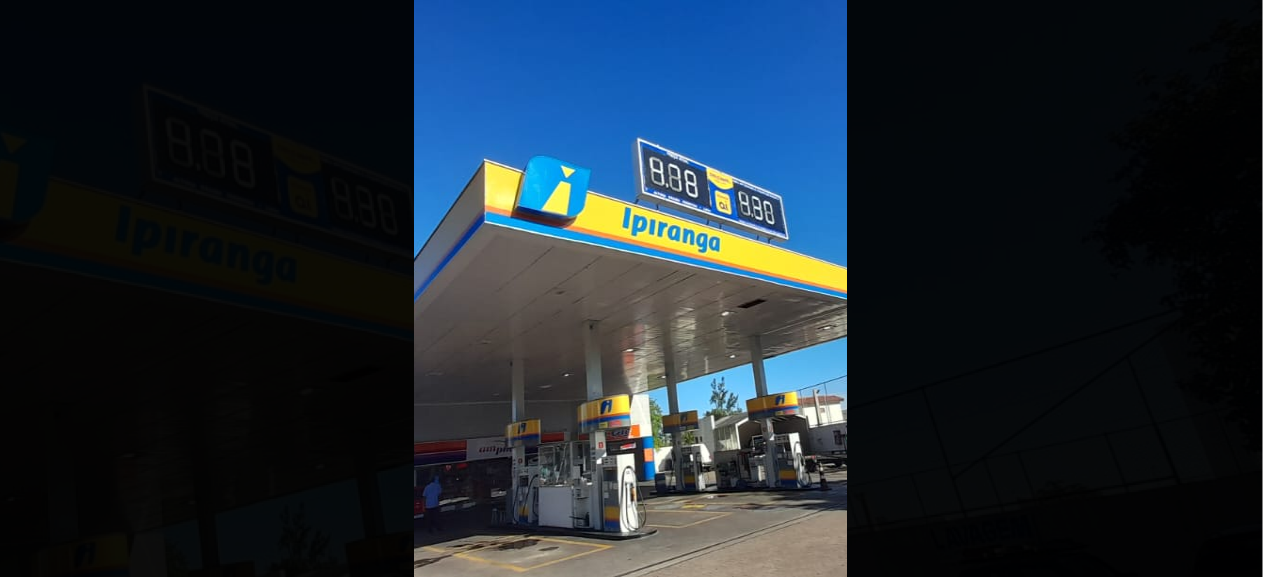
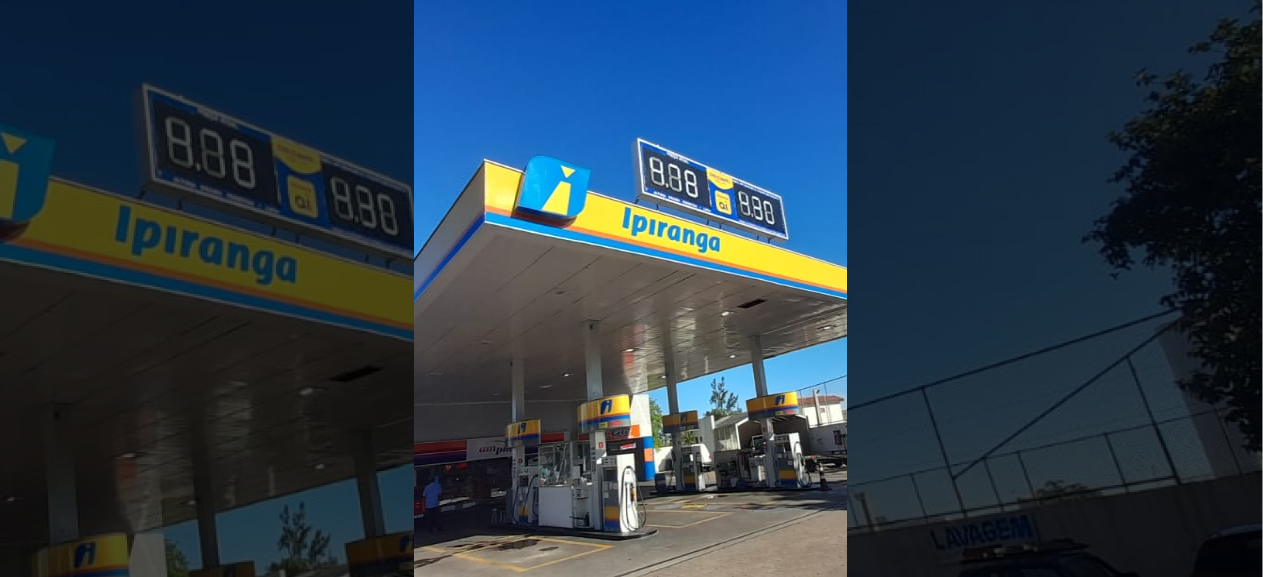
fixed: bug slide image

diff --git a/app/components/headline/Slide.tsx b/app/components/headline/Slide.tsx
@@ -1,32 +1,35 @@
 import Image from 'next/image'
-import React, { useState } from 'react'
+import React, { useCallback, useEffect, useState } from 'react'
 import styled from 'styled-components'
 import Plate1 from '../../../public/placa1.png'
 import Plate2 from '../../../public/placa2.png'
 import Plate3 from '../../../public/placa3.png'
+import style from './style.module.css'
 
 export default function Slide() {
-    const [counter, setCounter ] = useState(1)
-    setInterval(() => {
-        const plusCounter = counter + 1
-        setCounter(plusCounter)
-        if(counter > 2){
-            setCounter(1)
-        }
-    }, 3500)
+    const [ counter, setCounter ] = useState(1)
+
+    const increment = () => {
+        setCounter(counter < 3 ? counter + 1 : 1 )
+    }
+    
+        useEffect(() => {
+            const interval = setInterval(increment, 4000);
+            return () => clearInterval(interval);
+          }, [ counter ]);
+        
 
   return (
     <Container>
-        <Img src={Plate1} alt='Placa em LED - LEDOK' className={`img ${ counter === 1 && 'show'}`} />
+        <Img src={Plate1} alt='Placa em LED - LEDOK' className={`img ${ counter === 1 && 'show' }`} />
         <Img src={Plate2} alt='Placa em LED - LEDOK' className={`img ${ counter === 2 && 'show' }`} />
         <Img src={Plate3} alt='Placa em LED - LEDOK' className={`img ${ counter === 3 && 'show' }`} />
     </Container>
   )
 }
 
-const Container = styled.div`
-
-    .img {
+const Container = styled("div")`
+     .img {
         opacity: 0;
         color: #fff;
         transition: 0.8s;

diff --git a/app/components/headline/style.module.css b/app/components/headline/style.module.css
@@ -1,0 +1,18 @@
+.img {
+    opacity: 0;
+    color: #fff;
+    transition: 0.8s;
+    position: absolute;
+    top: 64px;
+    left: 0;
+    width: 874.84px;
+    height: 400px;
+    @media(max-width: 900px){
+        width: 100%;
+        height: auto;
+    }
+}
+
+.show {
+    opacity: 1;
+}

diff --git a/app/components/headline/Headline.tsx b/app/components/headline/Headline.tsx
@@ -49,6 +49,8 @@ const Div = styled.div`
   position: relative;
   left: 320px;
   z-index: 2;
+  background-color: #000000;
+  padding: 50px;
 
   h1 {
     max-width: 550px;
